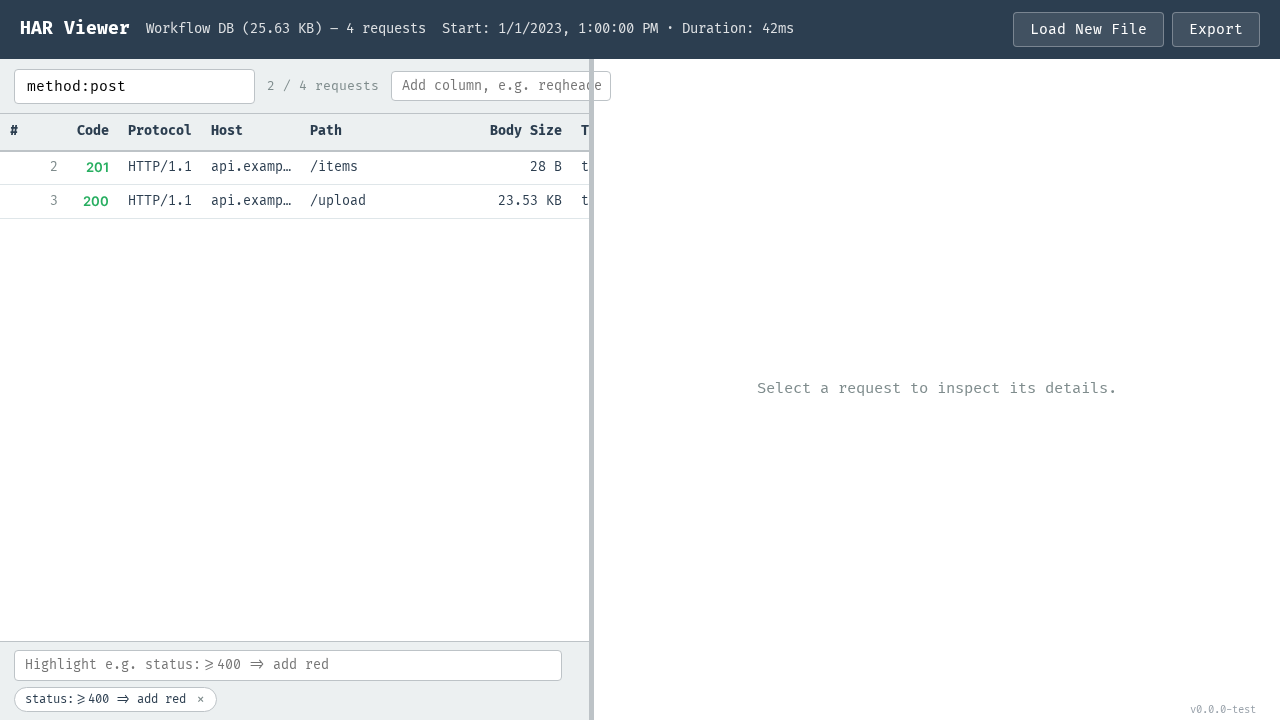
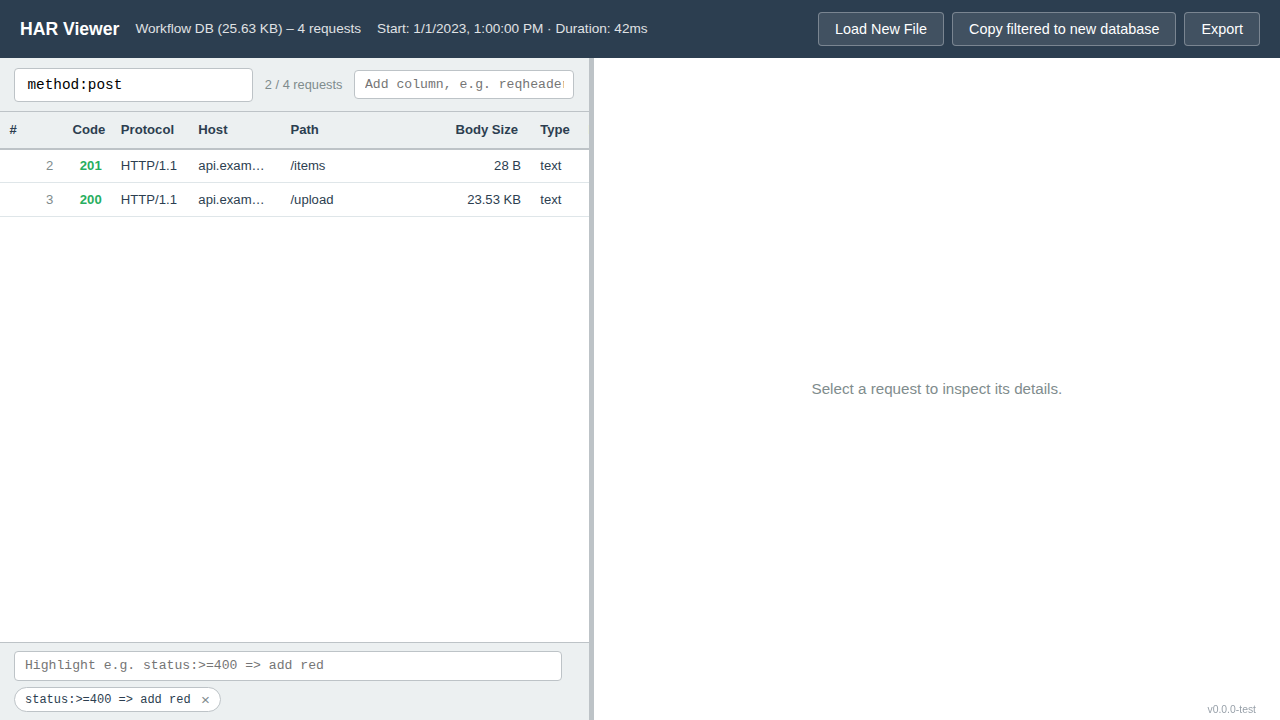
feat: copy filtered requests to a new database
Adds a "Copy filtered to new database" header button, shown only for a
complete database with a filter set. It copies the visible rows in
100k-row batches into a new stored database named
"<file name> - filter: <query>", carrying over highlight rules and custom
columns. Progress is shown on the button, which is locked while copying
and while exporting. When ready, the user is told and asked whether to
open the new database.

Adds unit and Playwright tests, a README screenshot, and CHANGELOG and
CLAUDE.md updates.

diff --git a/src/index.ts b/src/index.ts
@@ -42,6 +42,8 @@ class HarViewerApp {
   private errorTimeout: ReturnType<typeof setTimeout> | undefined;
   // Background imports, keyed by database name.
   private readonly jobs = new Map<string, ImportJob>();
+  // Progress (0..1) of the running filtered copy, or null when none is running.
+  private copyProgress: number | null = null;
   // Database names whose import is being started (guards against races).
   private readonly busy = new Set<string>();
   private databaseList: DatabaseList;
@@ -102,6 +104,7 @@ class HarViewerApp {
   private init(): void {
     document.getElementById('load-new-btn')!.addEventListener('click', () => this.resetToDropScreen());
     document.getElementById('export-btn')!.addEventListener('click', () => this.exportData());
+    document.getElementById('copy-filtered-btn')!.addEventListener('click', () => void this.copyFilteredToDatabase());
     void this.renderDatabaseList();
 
     // Custom column control: add a column when Enter is pressed.
@@ -344,11 +347,25 @@ class HarViewerApp {
     this.highlightBar.setRules(rules);
     this.requestTable.setHighlightRules(rules);
     this.requestTable.setFilter(view.filter);
+    this.updateCopyButton();
+  }
+
+  // The copy button is offered only for a complete database with a filter set.
+  private updateCopyButton(): void {
+    const button = document.getElementById('copy-filtered-btn') as HTMLButtonElement;
+    const copying = this.copyProgress !== null;
+    const enabled = copying || (!!this.store?.complete && this.view.filter.trim() !== '');
+    button.classList.toggle('hidden', !enabled);
+    button.disabled = copying;
+    button.textContent = copying
+      ? `Copying… ${Math.round((this.copyProgress ?? 0) * 100)}%`
+      : 'Copy filtered to new database';
   }
 
   // Updates the view state and saves it in the metadata of the shown database.
   private saveView(patch: Partial<DbView>): void {
     this.view = {...this.view, ...patch};
+    this.updateCopyButton();
     const store = this.store;
     if (!store) return;
     store.setView(this.view).catch(error => {
@@ -371,6 +388,7 @@ class HarViewerApp {
     const store = this.store;
     this.requestTable.setStore(null);
     this.store = null;
+    this.updateCopyButton();
     if (store && ![...this.jobs.values()].some(job => job.store === store)) {
       store.close();
     }
@@ -430,15 +448,88 @@ class HarViewerApp {
       return;
     }
 
-    const blob = await store.exportBlob(this.requestTable.getVisibleIds());
-    const url = URL.createObjectURL(blob);
-    const baseName = store.fileName.replace(/\.gz$/i, '').replace(/\.har$/i, '');
+    const exportButton = document.getElementById('export-btn') as HTMLButtonElement;
+    exportButton.disabled = true;
+    try {
+      const blob = await store.exportBlob(this.requestTable.getVisibleIds());
+      const url = URL.createObjectURL(blob);
+      const baseName = store.fileName.replace(/\.gz$/i, '').replace(/\.har$/i, '');
 
-    const linkElement = document.createElement('a');
-    linkElement.setAttribute('href', url);
-    linkElement.setAttribute('download', `${baseName}.filtered.har`);
-    linkElement.click();
-    setTimeout(() => URL.revokeObjectURL(url), 1000);
+      const linkElement = document.createElement('a');
+      linkElement.setAttribute('href', url);
+      linkElement.setAttribute('download', `${baseName}.filtered.har`);
+      linkElement.click();
+      setTimeout(() => URL.revokeObjectURL(url), 1000);
+    } finally {
+      exportButton.disabled = false;
+    }
+  }
+
+  // Copies the requests passing the filter into a new stored database named
+  // "<file name> - filter: <query>", carrying over the custom columns and
+  // highlight rules (not the filter itself). Progress is shown on the copy
+  // button; the user is told when the new database is ready and asked whether
+  // to open it.
+  private async copyFilteredToDatabase(): Promise<void> {
+    const store = this.store;
+    const query = this.view.filter.trim();
+    if (!store || !store.complete || !query || this.copyProgress !== null) return;
+
+    const ids = this.requestTable.getVisibleIds();
+    if (ids.length === 0) {
+      this.showMessage('No requests match the filter, so there is nothing to copy.', 'info');
+      return;
+    }
+
+    const fileName = `${store.fileName} - filter: ${query}`;
+    const modified = Date.now();
+    const name = dbNameFor(fileName, modified);
+    if (this.jobs.has(name)) {
+      this.showMessage('This database is already being created.', 'info');
+      return;
+    }
+
+    let target: HarStore;
+    try {
+      target = await HarStore.create(name, fileName, store.fileSize, modified);
+    } catch (error) {
+      console.error('Error creating filtered database:', error);
+      this.showMessage('Could not create the new database.');
+      return;
+    }
+
+    this.copyProgress = 0;
+    this.updateCopyButton();
+    try {
+      const view: DbView = {
+        filter: '',
+        customColumns: this.view.customColumns,
+        highlightRules: this.view.highlightRules
+      };
+      await store.copyRowsTo(target, ids, view, (fraction) => {
+        this.copyProgress = fraction;
+        this.updateCopyButton();
+      });
+      this.copyProgress = null;
+      this.updateCopyButton();
+      void this.renderDatabaseList();
+      this.showMessage(`"${fileName}" is ready: ${ids.length} requests copied.`, 'info', 8000);
+
+      const choice = await askChoice(
+        `Open the new database "${fileName}" now?`,
+        [
+          {value: 'open', label: 'Open (Recommended)'},
+          {value: 'later', label: 'Not now'}
+        ]
+      );
+      if (choice === 'open') await this.showDatabase(name);
+    } catch (error) {
+      console.error('Error copying filtered requests:', error);
+      this.copyProgress = null;
+      this.updateCopyButton();
+      void this.renderDatabaseList();
+      this.showMessage('Copying the filtered requests failed. The partial database was kept as incomplete.');
+    }
   }
 
   private showMessage(message: string, variant: 'error' | 'info' = 'error', durationMs = 5000): void {

diff --git a/tests/e2e/workflow.spec.ts b/tests/e2e/workflow.spec.ts
@@ -231,5 +231,48 @@ test.describe('HAR viewer workflow', () => {
     await expect(dbRow(page, 'broken.har').locator('.db-open')).toBeDisabled();
     await shot(page, '10-invalid-file.png');
   });
+
+  test('copies the filtered requests into a new database with highlights and columns', async ({ page }) => {
+    await page.clock.setFixedTime(FIXED_NOW);
+    await page.goto('/');
+    await importFile(page, { name: 'copy.har', buffer: Buffer.from(JSON.stringify(fixtureHar())) });
+    await answerNameDialog(page, 'Copy DB', 'copy comment');
+    await expect(dbRow(page, 'Copy DB')).toHaveAttribute('data-state', 'complete');
+    await dbRow(page, 'Copy DB').locator('.db-open').click();
+    await expect(rows(page)).toHaveCount(4);
+
+    // Without a filter the copy button stays hidden.
+    await expect(page.locator('#copy-filtered-btn')).toBeHidden();
+
+    // Highlight and custom column are set up front; they must be carried over.
+    await page.locator('#highlight-input').fill('status:>=400 => red');
+    await page.locator('#highlight-input').press('Enter');
+    await page.locator('#custom-col-input').fill('reqheader:content-type');
+    await page.locator('#custom-col-input').press('Enter');
+    await page.locator('#request-filter').fill('method:post');
+    await page.locator('#request-filter').press('Enter');
+    await expect(rows(page)).toHaveCount(2);
+    await expect(page.locator('#copy-filtered-btn')).toBeVisible();
+    await shot(page, '11-copy-filtered.png');
+
+    // Copy: the new database is created in the background, then the user is asked to open it.
+    await page.locator('#copy-filtered-btn').click();
+    const dialog = page.locator('dialog.choice-dialog');
+    await expect(dialog).toContainText('Open the new database');
+    await dialog.getByRole('button', { name: 'Open (Recommended)', exact: true }).click();
+
+    // The new database is opened with only the filtered requests, no filter, and the copied view.
+    await expect(page.locator('#file-info')).toContainText('Copy DB - filter: method:post');
+    await expect(rows(page)).toHaveCount(2);
+    await expect(page.locator('#request-filter')).toHaveValue('');
+    await expect(page.locator('#highlight-rules')).toContainText('status:>=400');
+    await expect(page.locator('th.col-custom')).toHaveCount(1);
+    await expect(page.locator('#copy-filtered-btn')).toBeHidden();
+
+    // The source database is unchanged: still four requests.
+    await page.locator('#load-new-btn').click();
+    await expect(dbRow(page, 'filter: method:post')).toHaveAttribute('data-state', 'complete');
+    await expect(dbRow(page, 'Copy DB').filter({ hasNotText: 'filter:' }).locator('.db-open')).toBeEnabled();
+  });
 });
 

diff --git a/tests/harStore.test.ts b/tests/harStore.test.ts
@@ -223,6 +223,28 @@ describe('HarStore', () => {
     expect(JSON.parse(await (await store.exportBlob([])).text()).log).not.toHaveProperty('comment');
     store.close();
   });
+
+  it('copies the given rows into a new complete store with the view state, keeping the comment', async () => {
+    const items = [ENTRIES[0], { invalid: true, reason: 'bad', raw: '{' }, ENTRIES[1], ENTRIES[2]];
+    const source = await load(freshName(), items);
+    await source.setComment('source comment');
+    const view = { filter: '', customColumns: [], highlightRules: ['status:404 => red'] };
+    const targetName = freshName();
+    const target = await HarStore.create(targetName, 'file.har - filter: method:get', 1234, 2000);
+    const progress: number[] = [];
+    await source.copyRowsTo(target, [0, 2, 3], view, (fraction) => progress.push(fraction));
+    expect(target.complete).toBe(true);
+    expect(target.count).toBe(3);
+    expect(target.comment).toBe('source comment');
+    expect(target.view).toEqual(view);
+    expect(progress.at(-1)).toBe(1);
+    const reopened = await HarStore.open(targetName);
+    expect(reopened.fileName).toBe('file.har - filter: method:get');
+    expect(JSON.parse(await (await reopened.exportBlob([0, 1, 2])).text()).log.entries).toEqual([ENTRIES[0], ENTRIES[1], ENTRIES[2]]);
+    expect(reopened.view.highlightRules).toEqual(['status:404 => red']);
+    reopened.close();
+    source.close();
+  });
 });
 
 describe('HarStore filtering on sub-attributes', () => {

diff --git a/src/utils/harStore.ts b/src/utils/harStore.ts
@@ -21,6 +21,8 @@ const HIGHLIGHT_RULES_KEY = 'highlightRules';
 const FILTER_CACHE_KEY = 'filterCache';
 // Number of rows read per transaction while exporting.
 const EXPORT_CHUNK_SIZE = 500;
+// Rows read and written per transaction when copying into a new database.
+const COPY_BATCH_SIZE = 100_000;
 
 export type StoredRow = HarEntryRaw | InvalidItem;
 
@@ -469,6 +471,20 @@ export class HarStore {
     }
     parts.push(']', tail);
     return new Blob(parts, { type: 'application/json' });
+  }
+
+  // Copies the rows at the given indices (in order) into the target store,
+  // which must be a fresh store from create(). The target keeps this store's
+  // comment and document, and gets the given view state.
+  async copyRowsTo(target: HarStore, ids: number[], view: DbView, onProgress?: (fraction: number) => void): Promise<void> {
+    for (let i = 0; i < ids.length; i += COPY_BATCH_SIZE) {
+      const values = await this.readValues(ids.slice(i, i + COPY_BATCH_SIZE));
+      await target.writeBatch(values.filter((value): value is StoredRow => value !== undefined));
+      onProgress?.(Math.min(1, (i + COPY_BATCH_SIZE) / ids.length));
+    }
+    target.comment = this.comment;
+    await target.finish(this.root, this.uncompressedSize);
+    await target.setView(view);
   }
 
   close(): void {

diff --git a/index.html b/index.html
@@ -34,6 +34,7 @@
                 <div id="time-range" class="time-range"></div>
                 <div class="header-actions">
                     <button id="load-new-btn" type="button">Load New File</button>
+                    <button id="copy-filtered-btn" type="button" class="hidden" title="Copy the currently filtered requests into a new stored database (only when a filter is set)">Copy filtered to new database</button>
                     <button id="export-btn" type="button" title="Export the currently filtered requests as a .har (JSON) file">Export</button>
                 </div>
             </header>

diff --git a/CLAUDE.md b/CLAUDE.md
@@ -163,7 +163,7 @@ is needed for development. See [TypeScript](#typescript) below.
    through `HarStore.filterResult`, and only the rows of the visible window are
    read with `HarStore.getEntries`. `setStore(store)` attaches a complete database,
    `setFilter(query)` applies its filter, `getVisibleIds()` gives the current
-   filter result (used by export), and `selectSingleEntry(id)` lets the detail
+   filter result (used by export and the copy), and `selectSingleEntry(id)` lets the detail
    panel's timeline select one row programmatically.
    **Windowed rendering**: only the rows inside the `.request-table-scroll`
    viewport (plus `OVERSCAN_ROWS` above/below) are in the DOM; the rest is
@@ -240,7 +240,9 @@ is needed for development. See [TypeScript](#typescript) below.
    returning `{ count, ids }` (uses `compileFilterQuery`; an empty query gives `ids: null`
    without reading any key, so the count comes from `meta.count`; a non-empty query scans
    the rows, and a full pass over a complete DB is cached under the `filterCache` key so
-   reopening with the same filter reuses the saved indices), and `exportBlob(ids)`.
+   reopening with the same filter reuses the saved indices), `exportBlob(ids)`, and
+   `copyRowsTo(target, ids, view, onProgress)`, which copies the given rows in chunks into
+   a new store (keeping the comment and HAR metadata) and saves the view state there.
 11. **ChoiceDialog** (`components/ChoiceDialog.ts`) - `askChoice(message, choices)`
    and `askText(message, defaultValue)` and `askFields(fields)` (several labelled
    text fields in one dialog, e.g. name + comment on import) show a modal `<dialog>` and resolve to
@@ -259,6 +261,12 @@ is needed for development. See [TypeScript](#typescript) below.
   as a standalone `.har` (JSON) file, named `<database name>.filtered.har`
   (the name entered at import, not the original file name). The export also
   carries the stored comment as `log.comment`.
+  The **Copy filtered to new database** button (`#copy-filtered-btn`, `copyFilteredToDatabase`) is shown
+  only for complete databases with a filter set (`updateCopyButton`, called from `applyView`, `saveView`
+  and `closeStore`). It copies the visible rows through `HarStore.copyRowsTo` (in 100k-row batches,
+  `COPY_BATCH_SIZE`) into a new store named `<file name> - filter: <query>`, with the highlight rules
+  and custom columns but no filter. Progress is shown on the button (`Copying… N%`, disabled while
+  running). When done, a toast reports it is ready and `askChoice` offers to open it.
   Export is only offered for complete databases (the button shows a toast otherwise). The button's `title` tooltip states
   what/format is exported; keep it in sync if the export format or scope
   changes. After a file loads, `displayTimeRange` fills `#time-range`
@@ -509,13 +517,13 @@ Vite, untouched by Babel. Run `npm run typecheck` separately (or via
 End-to-end tests (`tests/e2e/*.spec.ts`, Playwright + Chromium, config in
 `playwright.config.ts`, run with `npx playwright test`; Vite dev server is
 started automatically on port 3000): `tests/e2e/workflow.spec.ts` drives the
-app through import (name/comment dialog), open, highlight, filter, export,
+app through import (name/comment dialog), open, highlight, filter, export, copy filtered to a new database,
 custom column, multi-select, reload persistence and delete, plus the
 invalid-file error path. The file is generated in the test; nothing is
 uploaded. Jest ignores `*.spec.ts` files.
 
 The test also saves a screenshot after each step to `docs/screenshots/`
-(`01-start.png` ... `10-invalid-file.png`); these are embedded below and in
+(`01-start.png` ... `11-copy-filtered.png`); these are embedded below and in
 `README.md`'s Screenshots section. Re-run `npx playwright test` to refresh them.
 
 | Step | Screenshot |
@@ -530,6 +538,7 @@ The test also saves a screenshot after each step to `docs/screenshots/`
 | Multi-select Timeline | ![Timeline](docs/screenshots/08-timeline.png) |
 | Filter, highlight and column restored after reload | ![Restored view](docs/screenshots/09-restored-view.png) |
 | Invalid file kept as incomplete database | ![Invalid file](docs/screenshots/10-invalid-file.png) |
+| Copy filtered to new database | ![Copy filtered](docs/screenshots/11-copy-filtered.png) |
 
 Future enhancements could include:
 1. Component/integration tests for `RequestTable` and `DetailPanel`

diff --git a/README.md b/README.md
@@ -46,6 +46,7 @@ A client-side HTTP Archive (HAR) viewer inspired by Fiddler, built with modern w
 - Opens plain `.har` and gzip-compressed `.har.gz` files
 - Export of the currently filtered requests as a `.har` file, named after the
   database and carrying its comment
+- Copy of the currently filtered requests into a new stored database (only shown when a filter is set), with highlight rules and custom columns; you are then asked whether to open it
 - Resizable panes (drag the splitters) and resizable request-table columns
   (drag the `Path` or custom column header edge)
 - Large archives stay fast: only the visible rows of the request table are rendered
@@ -90,6 +91,9 @@ Filter, highlight rules and custom columns are restored when the database is reo
 ### Invalid file
 A file that is not valid JSON is kept as an incomplete database that cannot be opened.
 ![Invalid file](docs/screenshots/10-invalid-file.png)
+### Copy filtered to new database
+With a filter set, **Copy filtered to new database** copies the matching requests into a new stored database named `<file name> - filter: <query>`, carrying over highlight rules and custom columns. Afterwards you are asked whether to open it.
+![Copy filtered to new database](docs/screenshots/11-copy-filtered.png)
 ## Project Structure
 
 ```

diff --git a/CHANGELOG.md b/CHANGELOG.md
@@ -7,6 +7,7 @@ and this project adheres to [Semantic Versioning](https://semver.org/spec/v2.0.0
 
 ## [Unreleased]
 ### Added
+- "Copy filtered to new database" (shown only when a filter is set) copies the filtered requests into a new stored database named `<file name> - filter: <query>`, in 100k-row batches, with highlight rules and custom columns; progress is shown on the button, and afterwards it asks whether to open the new database
 - Stored databases show when they were last used (set on import and every time they are opened)
 - Import asks for the database name and a comment in one dialog once the file is read; the comment is pre-filled with the HAR's `log.comment`
 - Request-table filter, custom columns and highlight rules are saved in each database and restored when it is opened
